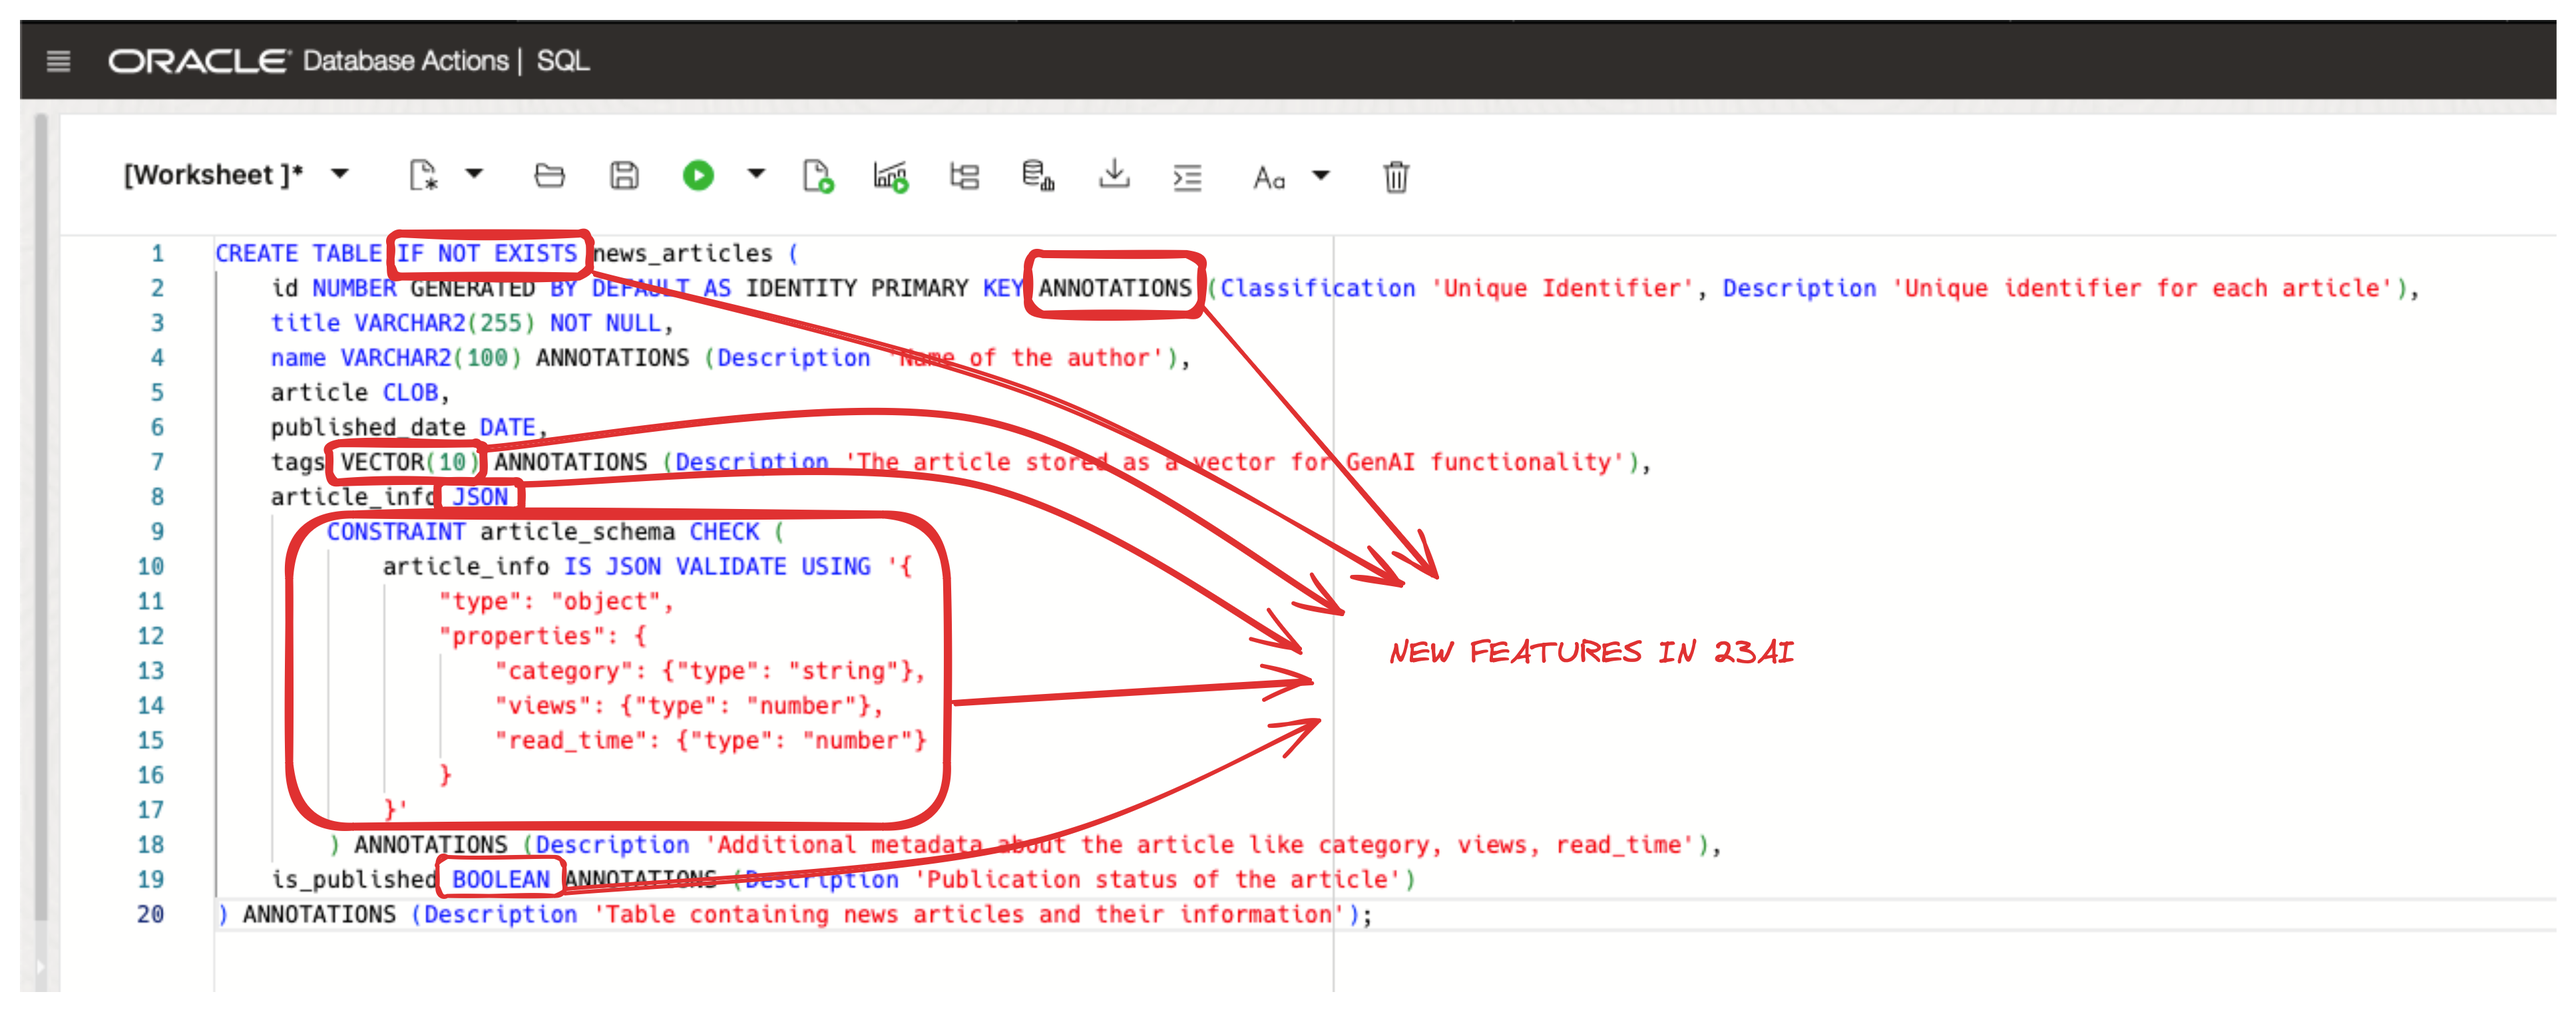
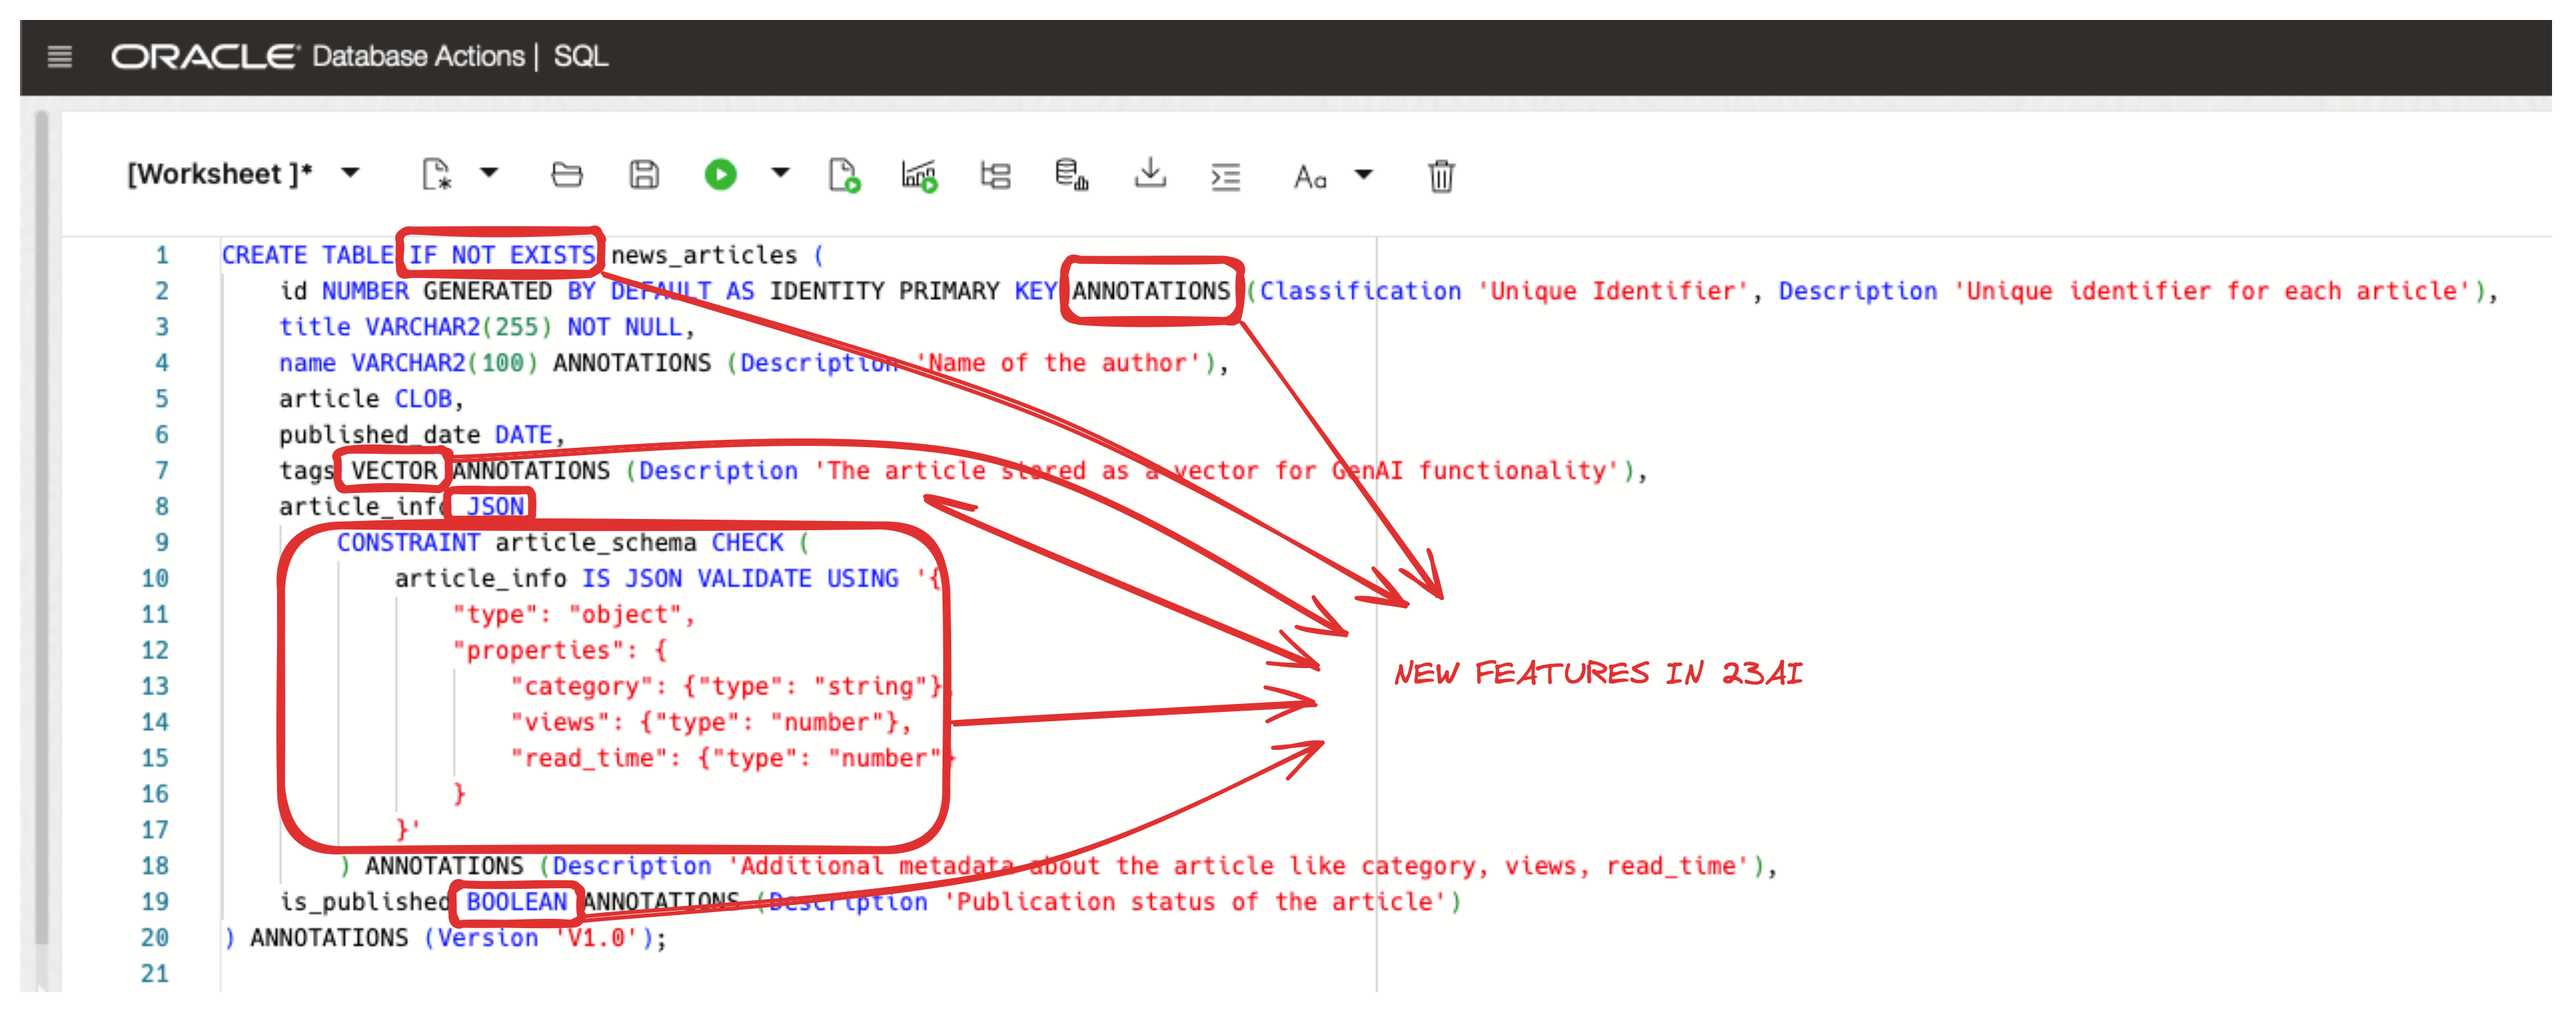
WMS ID 11029
updates for the quick start version of the workshop

diff --git a/db-23c-fundamentals/workshops/sandbox-quickstart/index.html b/db-23c-fundamentals/workshops/sandbox-quickstart/index.html
@@ -1,0 +1,63 @@
+<!DOCTYPE html>
+<html lang="en">
+
+<head>
+    <meta charset="utf-8">
+    <meta http-equiv="X-UA-Compatible" content="IE=edge">
+    <meta name="viewport" content="width=device-width, initial-scale=1">
+    <meta name="description" content="Oracle LiveLabs gives you access to Oracle's products to run a wide variety of labs and workshops; allowing you to experience our best technology, live!">
+    <title>Oracle LiveLabs</title>
+
+    <script src="https://oracle-livelabs.github.io/common/redwood-hol/js/jquery-1.11.0.min.js"></script>
+    <script src="https://oracle-livelabs.github.io/common/redwood-hol/js/jquery-ui-1.10.4.custom.js"></script>
+    <script src="main.21.1.1.js"></script>
+    <script src="https://oracle-livelabs.github.io/common/redwood-hol/js/main.min.js"></script>
+
+    <link rel="stylesheet" href="https://oracle-livelabs.github.io/common/redwood-hol/css/style.min.css" />
+    <link rel="shortcut icon" href="https://oracle-livelabs.github.io/common/redwood-hol/img/favicon.ico" />
+</head>
+
+<body>
+    <header class="hol-Header" role="banner">
+        <div class="hol-Header-wrap">
+            <div class="hol-Header-logo"><span>Oracle LiveLabs</span></div>
+            <a href="https://developer.oracle.com/livelabs" target="_blank" id="livelabs" title="Oracle LiveLabs"></a>
+            <div class="hol-Header-actions">
+                <button id="openNav" class="hol-Header-button hol-Header-button--menu rightNav" aria-label="Open Menu"
+                    title="Open Menu">
+                    <span class="hol-Header-toggleIcon"></span>
+                </button>
+            </div>
+        </div>
+    </header>
+
+    <div id="container">
+        <div id="leftNav">
+            <div id="toc"></div>
+        </div>
+        <div id="contentBox">
+            <main class="hol-Content" id="module-content"></main>
+        </div>
+    </div>
+
+      <footer class="hol-Footer">
+        <a class="hol-Footer-topLink" href="#top">Return to Top</a>
+        <div id="footer-banner"><div class="footer-row">
+          <div class="footer-content"><ul class="footer-links">
+              <li><a href="https://docs.oracle.com/pls/topic/lookup?ctx=en/legal&id=cpyr" target="_blank" aria-label="Open a new window to Oracle legal notices" data-lbl="copyright">© Oracle</a></li>
+              <li><a href="https://www.oracle.com/corporate/index.html" target="_blank" aria-label="Open a new window to learn more about oracle" data-lbl="about-oracle">About Oracle</a></li>
+              <li><a href="https://www.oracle.com/corporate/contact/" target="_blank" aria-label="Open a new window to contact oracle" data-lbl="contact-us">Contact Us</a></li>
+              <li class="footer-links-break"></li>
+              <li><a href="https://docs.oracle.com/en/browseall.html" target="_blank" aria-label="Open a new window to products a-z" data-lbl="products-a-z">Products A-Z</a></li>
+              <li><a href="https://www.oracle.com/legal/privacy/" target="_blank" aria-label="Open a new window to read more about Oracle terms of use and privacy" data-lbl="terms-of-use-and-privacy">Terms of Use & Privacy</a></li>
+              <li><a href="https://www.oracle.com/legal/privacy/privacy-policy.html#11" target="_blank" aria-label="Open a new window to read more about managing Oracle cookie preferences" data-lbl="cookie-preferences">Cookie Preferences</a></li>
+              <li><a href="https://www.oracle.com/legal/privacy/marketing-cloud-data-cloud-privacy-policy.html#adchoices" target="_blank" aria-label="Open a new window to ad choices" data-lbl="ad-choices">Ad Choices</a></li>
+              <li class="footer-links-break"></li><li class="last"><a href="https://docs.oracle.com/pls/topic/lookup?ctx=en/legal&id=cpyr" target="_blank" aria-label="Open a new window to Oracle legal notices" data-lbl="copyright">© Oracle</a></li>
+            </ul>
+          </div>
+        </div>
+      </div>
+    </footer>
+</body>
+
+</html>

diff --git a/db-23c-fundamentals/workshops/tenancy-quickstart/index.html b/db-23c-fundamentals/workshops/tenancy-quickstart/index.html
@@ -1,0 +1,63 @@
+<!DOCTYPE html>
+<html lang="en">
+
+<head>
+    <meta charset="utf-8">
+    <meta http-equiv="X-UA-Compatible" content="IE=edge">
+    <meta name="viewport" content="width=device-width, initial-scale=1">
+    <meta name="description" content="Oracle LiveLabs gives you access to Oracle's products to run a wide variety of labs and workshops; allowing you to experience our best technology, live!">
+    <title>Oracle LiveLabs</title>
+
+    <script src="https://oracle-livelabs.github.io/common/redwood-hol/js/jquery-1.11.0.min.js"></script>
+    <script src="https://oracle-livelabs.github.io/common/redwood-hol/js/jquery-ui-1.10.4.custom.js"></script>
+    <script src="main.21.1.1.js"></script>
+    <script src="https://oracle-livelabs.github.io/common/redwood-hol/js/main.min.js"></script>
+
+    <link rel="stylesheet" href="https://oracle-livelabs.github.io/common/redwood-hol/css/style.min.css" />
+    <link rel="shortcut icon" href="https://oracle-livelabs.github.io/common/redwood-hol/img/favicon.ico" />
+</head>
+
+<body>
+    <header class="hol-Header" role="banner">
+        <div class="hol-Header-wrap">
+            <div class="hol-Header-logo"><span>Oracle LiveLabs</span></div>
+            <a href="https://developer.oracle.com/livelabs" target="_blank" id="livelabs" title="Oracle LiveLabs"></a>
+            <div class="hol-Header-actions">
+                <button id="openNav" class="hol-Header-button hol-Header-button--menu rightNav" aria-label="Open Menu"
+                    title="Open Menu">
+                    <span class="hol-Header-toggleIcon"></span>
+                </button>
+            </div>
+        </div>
+    </header>
+
+    <div id="container">
+        <div id="leftNav">
+            <div id="toc"></div>
+        </div>
+        <div id="contentBox">
+            <main class="hol-Content" id="module-content"></main>
+        </div>
+    </div>
+
+      <footer class="hol-Footer">
+        <a class="hol-Footer-topLink" href="#top">Return to Top</a>
+        <div id="footer-banner"><div class="footer-row">
+          <div class="footer-content"><ul class="footer-links">
+              <li><a href="https://docs.oracle.com/pls/topic/lookup?ctx=en/legal&id=cpyr" target="_blank" aria-label="Open a new window to Oracle legal notices" data-lbl="copyright">© Oracle</a></li>
+              <li><a href="https://www.oracle.com/corporate/index.html" target="_blank" aria-label="Open a new window to learn more about oracle" data-lbl="about-oracle">About Oracle</a></li>
+              <li><a href="https://www.oracle.com/corporate/contact/" target="_blank" aria-label="Open a new window to contact oracle" data-lbl="contact-us">Contact Us</a></li>
+              <li class="footer-links-break"></li>
+              <li><a href="https://docs.oracle.com/en/browseall.html" target="_blank" aria-label="Open a new window to products a-z" data-lbl="products-a-z">Products A-Z</a></li>
+              <li><a href="https://www.oracle.com/legal/privacy/" target="_blank" aria-label="Open a new window to read more about Oracle terms of use and privacy" data-lbl="terms-of-use-and-privacy">Terms of Use & Privacy</a></li>
+              <li><a href="https://www.oracle.com/legal/privacy/privacy-policy.html#11" target="_blank" aria-label="Open a new window to read more about managing Oracle cookie preferences" data-lbl="cookie-preferences">Cookie Preferences</a></li>
+              <li><a href="https://www.oracle.com/legal/privacy/marketing-cloud-data-cloud-privacy-policy.html#adchoices" target="_blank" aria-label="Open a new window to ad choices" data-lbl="ad-choices">Ad Choices</a></li>
+              <li class="footer-links-break"></li><li class="last"><a href="https://docs.oracle.com/pls/topic/lookup?ctx=en/legal&id=cpyr" target="_blank" aria-label="Open a new window to Oracle legal notices" data-lbl="copyright">© Oracle</a></li>
+            </ul>
+          </div>
+        </div>
+      </div>
+    </footer>
+</body>
+
+</html>

diff --git a/db-23c-fundamentals/quickstart-features/quickstart-features.md b/db-23c-fundamentals/quickstart-features/quickstart-features.md
@@ -166,7 +166,7 @@ The objective of this workshop is to familiarize you with some of the new featur
         name VARCHAR2(100) ANNOTATIONS (Description 'Name of the author'),
         article CLOB,
         published_date DATE,
-        tags VECTOR(10) ANNOTATIONS (Description 'The article stored as a vector for GenAI functionality'),
+        tags VECTOR ANNOTATIONS (Description 'The article stored as a vector for GenAI functionality'),
         article_info JSON 
             CONSTRAINT article_schema CHECK (
                 article_info IS JSON VALIDATE USING '{
@@ -179,7 +179,7 @@ The objective of this workshop is to familiarize you with some of the new featur
                 }'
             ) ANNOTATIONS (Description 'Additional metadata about the article like category, views, read_time'),
         is_published BOOLEAN ANNOTATIONS (Description 'Publication status of the article')
-    ) ANNOTATIONS (Description 'Table containing news articles and their information');
+    ) ANNOTATIONS (Version 'V1.0');
     </copy>
     ```
 
@@ -188,7 +188,7 @@ The objective of this workshop is to familiarize you with some of the new featur
 
     Let's take a closer look at the new features:
 
-    * **Schema Annotations** are a great tool for documenting and classifying database objects, along with providing insights into their purpose and usage. Schema annotations in Oracle Database 23ai are like labels or notes added to objects to provide extra information. 
+    * **Schema Annotations** are a great tool for adding additional metadata to your schema objects, along with providing insights into their purpose and usage. Schema annotations in Oracle Database 23ai are like labels or notes added to objects to provide extra information. 
 
         Annotations clause typically follows this format: 
             ```
@@ -223,10 +223,9 @@ The objective of this workshop is to familiarize you with some of the new featur
 
         ![grant roles](images/vectors-diagram-2.png " ")
 
-        If you take a look at our vector column, you'll notice we set the dimensionality at 1536.
-            ```
-            tags VECTOR(1536)            
-            ```
+        If you take a look at our vector column, you'll notice we didn't set a dimensionality. You can optionally define the number of dimensions when creating a table. You can also define the number format of the vector.
+
+        For example, `vector(1536, float32)` would mean this vector has 1536 dimensions and is of type float32.
 
         What is dimensionality?
 
@@ -279,7 +278,9 @@ The objective of this workshop is to familiarize you with some of the new featur
 
 2. Let's now add the **NEW** data use case domains to our table.
 
-    **Overview of Data Usecase Domains**: Data Usecase Domains serve as a way for defining properties and constraints associated with columns. They ensure consistency in data representation and validation throughout the application.
+    **Overview of Data Usecase Domains**: 
+    
+    A use case domain is a high-level dictionary object that belongs to a schema and encapsulates a set of optional properties and constraints. Data Use Case Domains provide consistent metadata for development, analytics, and ETL applications and tools helping to ensure data consistency and validation throughout the schema. With Data Usecase Domain, you define how you intend to use data the centrally and they serve as a way for defining properties and constraints associated with columns. 
 
     **Types of Data Usecase Domains:**
 
